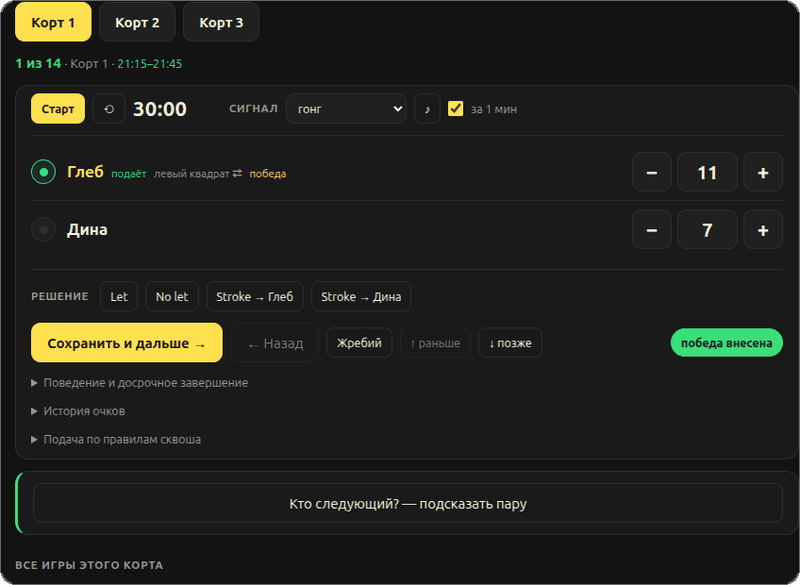
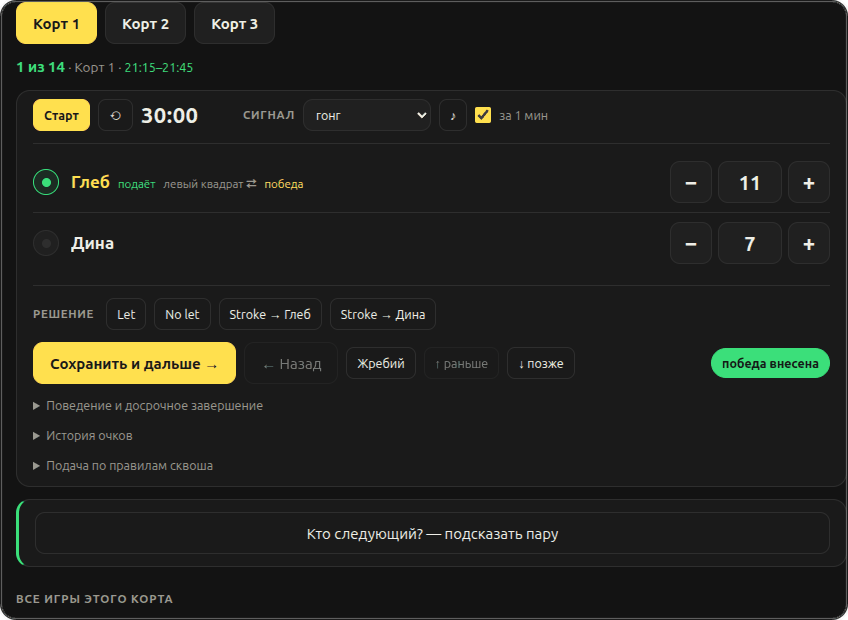
Иллюстрации: сглаженные углы (суперсэмплинг маски), пиксель в пиксель и анимация в WebP вместо GIF

diff --git a/README.md b/README.md
@@ -36,7 +36,7 @@
 
 ## Судейская консоль
 
-<img src="docs/judge.gif" alt="Счёт, решения и таймер судьи" width="100%">
+<img src="docs/judge.webp" alt="Счёт, решения и таймер судьи" width="100%">
 
 ## Плей-офф
 
